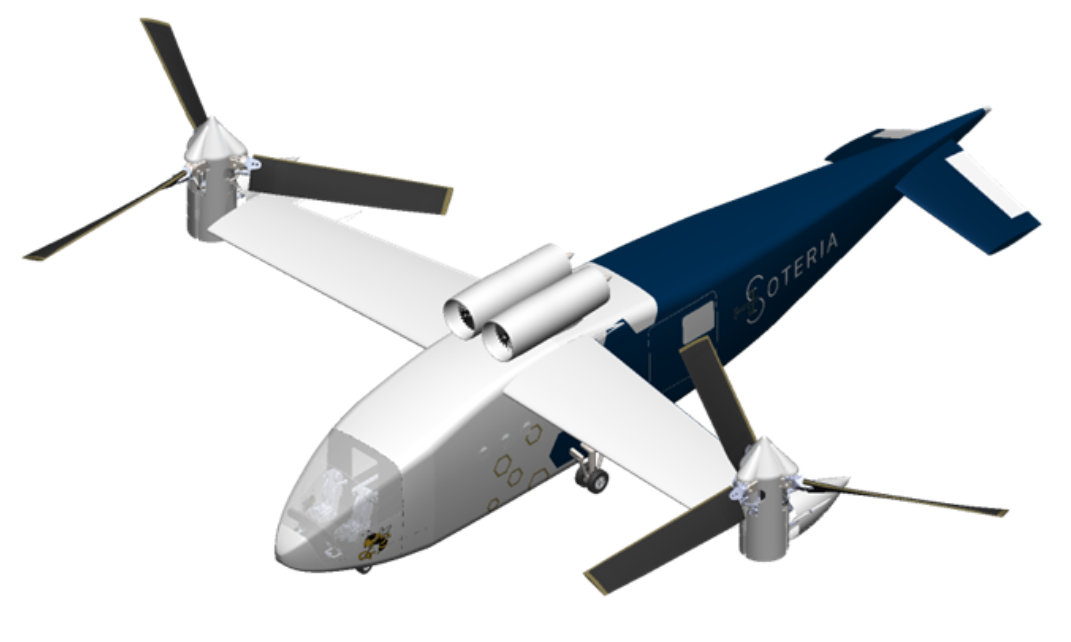
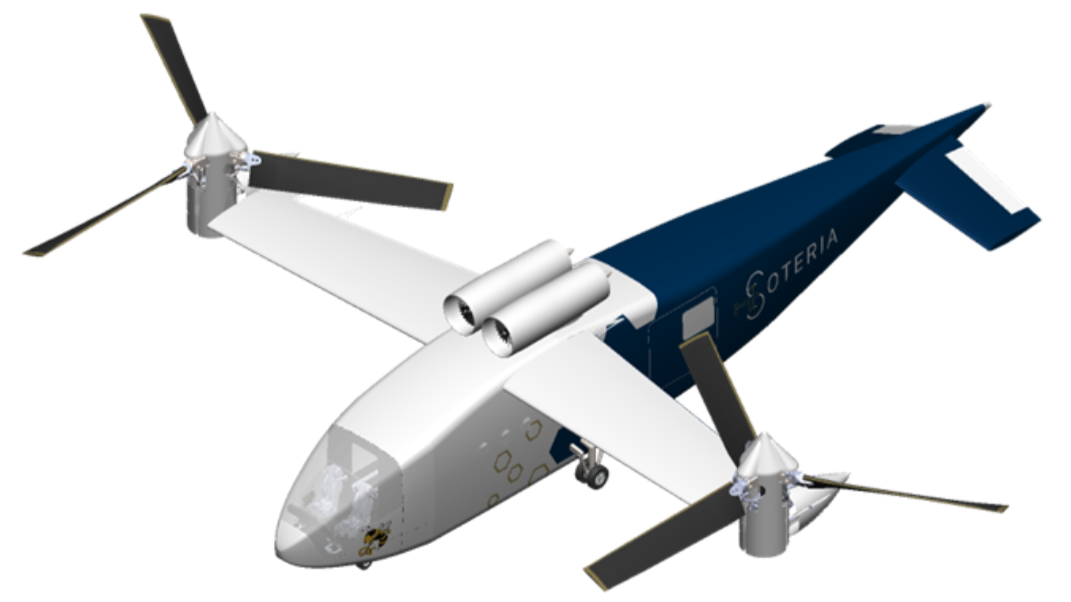
update

diff --git a/_projects/RotaryBalance.md b/_projects/RotaryBalance.md
@@ -1,14 +1,14 @@
 ---
 layout: page
-title: Soteria
-description: 2nd place in the 40th VFS graduate student design competition
-img: assets/img/Projects/Soteria/Soteria_Cover.png
-importance: 2
-category: Student Activities
+title: Aircraft Stall-Spin Charateristics
+description: Development of a rotary balance for aircraft stall-spin investigation
+img: assets/img/projects/RotaryBalance/RotaryBalance_Cover.jpg
+importance: 1
+category: Research
 related_publications: true
 ---
 
-Placed 2nd in the 40th Vertical Flight Society Graduate Student Design Competition, Soteria is a high-speed compound foldable tiltrotor configuration designed to carry a large payload volume with a minimum 450-knot cruise speed at altitudes above 20,000 ft and achieving a minimum radius of operation of over 500 nautical miles, while being able to operate over unprepared surfaces.
+A rotary balance system to characterize the aerodynamic responses of an aircraft in a spinning motion was developed at the Aerospace Science and Technology Research Center (ASTRC) of National Cheng Kung University (NCKU).  Experiments conducted with the Standard Dynamics Model (SDM), which is a generic fighter aircraft model, showed good agreement with available data extracted from previous studies.
 
 <hr>
 
